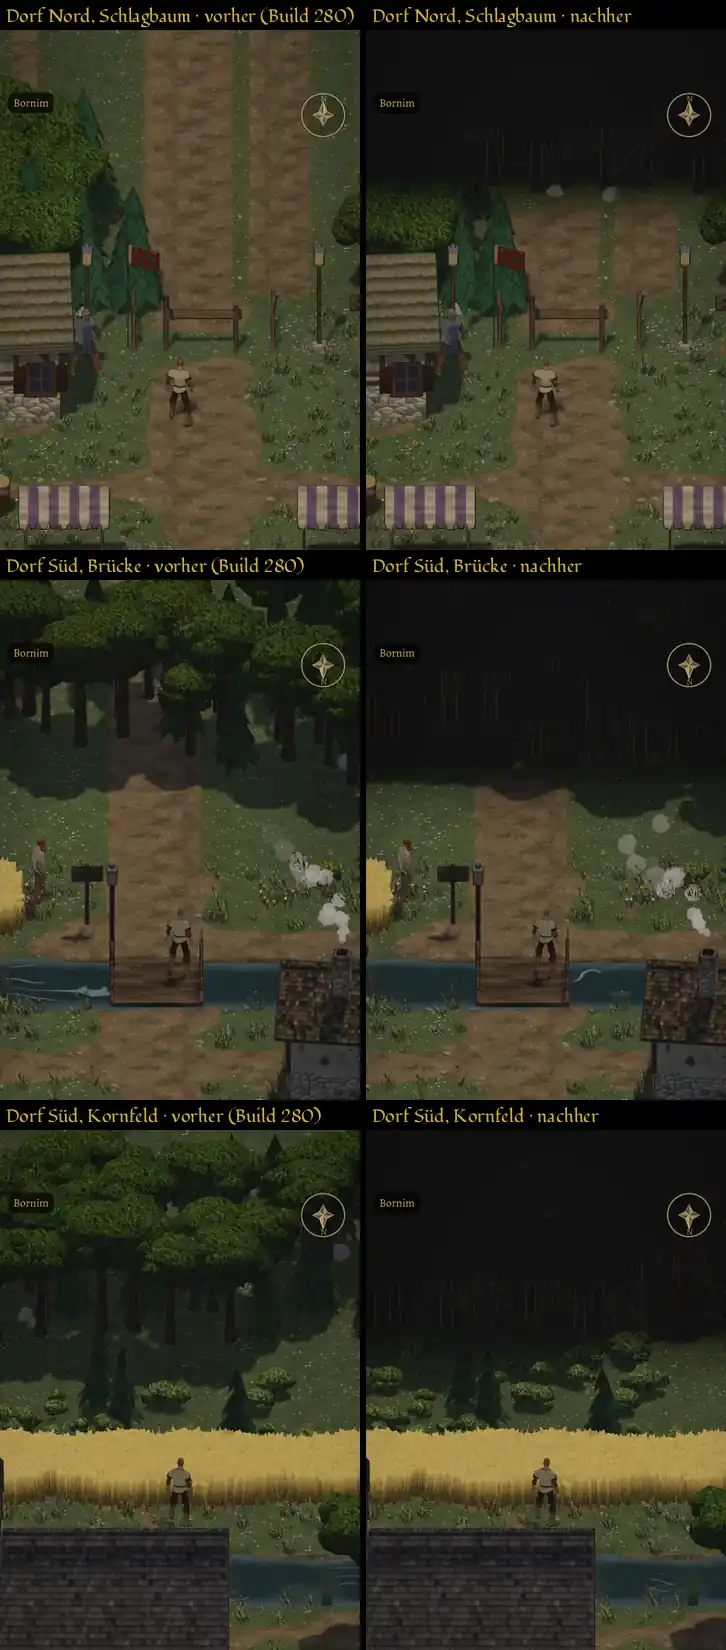
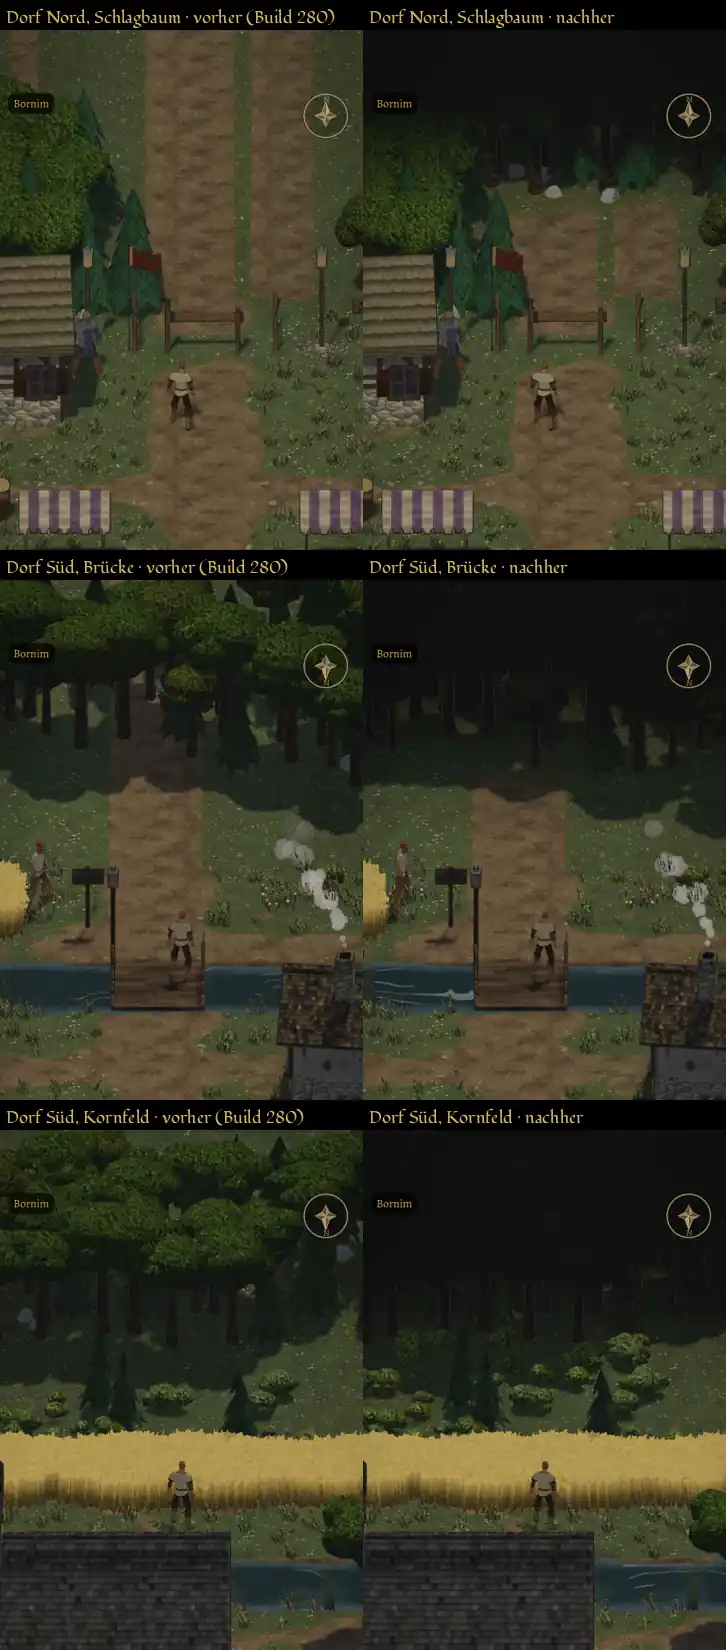
Chefsache: 1022 Kartenrand weich ins Dunkel vorher/nachher ansehen (Spike, Lauf 43310392064)
Claude-Session: https://claude.ai/code/session_01Hmoj76h7E8ictHFJTTMuzz

diff --git a/docs/chefsache/ansehen/1022-kartenrand.md b/docs/chefsache/ansehen/1022-kartenrand.md
@@ -1,0 +1,21 @@
+# 1022 · Kartenrand weich ins Dunkel, vorher/nachher · Tom (Spike) · 12.11., 23:42
+
+E Welt · Zweig `claude/spike-1022-kartenrand` · auf dem Bauserver mit Kaufmodellen, wie im Spiel
+
+Geprüft an: [Lauf 43310392064](https://github.com/tramour-cmyk/androidapp_rpg_bornim/actions/runs/43310392064), [Commit 88c0b35](https://github.com/tramour-cmyk/androidapp_rpg_bornim/commit/88c0b353c)
+
+Rückläufer zu deinem Urteil 20:07 („Dachte, das sollte irgendwie so ein sanfter Übergang werden und dann dunkel.“). Ursache: Der Übergang ins Dunkel war am Boden gemessen. Bei unserem schrägen Blick war er im Bild nur 1,6 Kacheln hoch und blieb bis kurz vor Schwarz fast hell, darum die harte Linie. Jetzt ist er im Bild gemessen: 1,5 Kacheln hinter dem Rand hell, dann über 4 Kacheln weich ins Schwarz, an allen Seiten und in den Ecken rund. Die Grashalme laufen mit ins Dunkel.
+
+So aufgenommen wie um 17:59: Spielansicht bei Tag, die Karte so gedreht, dass der Held zum Rand schaut (der Rand liegt oben). Links vorher (Build 280, so wie du es gespielt hast), rechts nachher.
+
+![Dorf Nord am Schlagbaum, Dorf Süd an der Brücke, Kornfeld](../bilder/1022-rand-1.webp)
+
+![Fluss im Westen und Osten des Dorfs, Flüsterwald Ost](../bilder/1022-rand-2.webp)
+
+![Flüsterwald Süd, Tiefer Wald Ost und Süd](../bilder/1022-rand-3.webp)
+
+- **Nachher:** Hinter dem Rand steht Wald, der nach außen dunkler wird, keine gerade Kante mehr. Der Weg hinter Schlagbaum und Brücke endet unter den Bäumen, der Fluss läuft ins Dunkel.
+- **Rest, mir ist aufgefallen:** (1) hinter dem Schlagbaum enden die zwei Wegstücke noch recht hell vor den ersten Bäumen; (2) am Fluss bleiben die hellen Wellenlinien sichtbar, bis das Wasser fast schwarz ist; dadurch wirkt das Ende des Flusses eher wie ein Schnitt als die Wiese daneben.
+- Der Randtest ist grün (0 Fehler). Rot war nur ein fremder Test zur Prüfliste (1020), der mit dem Kartenrand nichts zu tun hat; die Bilder betrifft das nicht.
+
+**Was du sagen sollst:** „1022 passt“ (fährt im nächsten Build); oder „Rest weg“ mit den Nummern (1), (2), die weg sollen; oder dein Urteil zu den Bildern. Heute Nacht urteilt Sokrates an deiner Stelle (1077).
